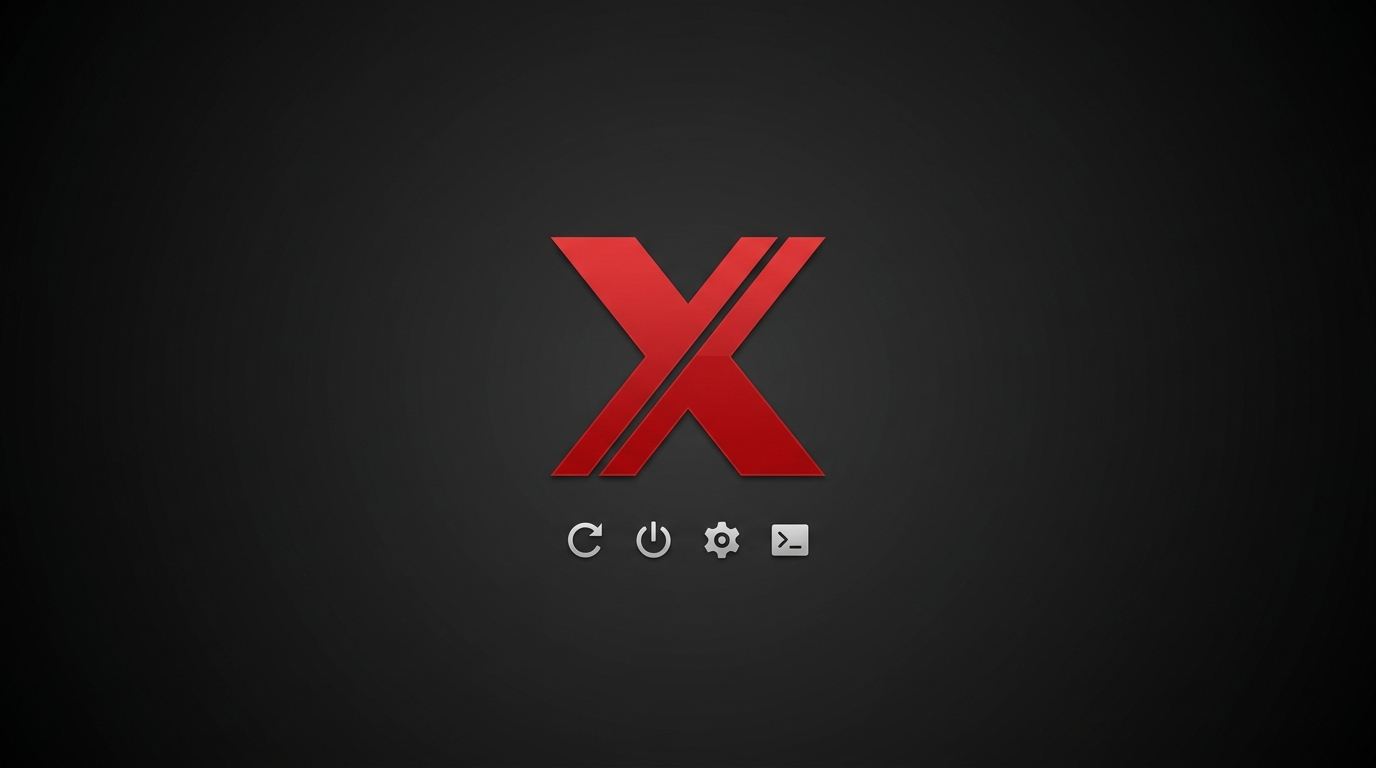
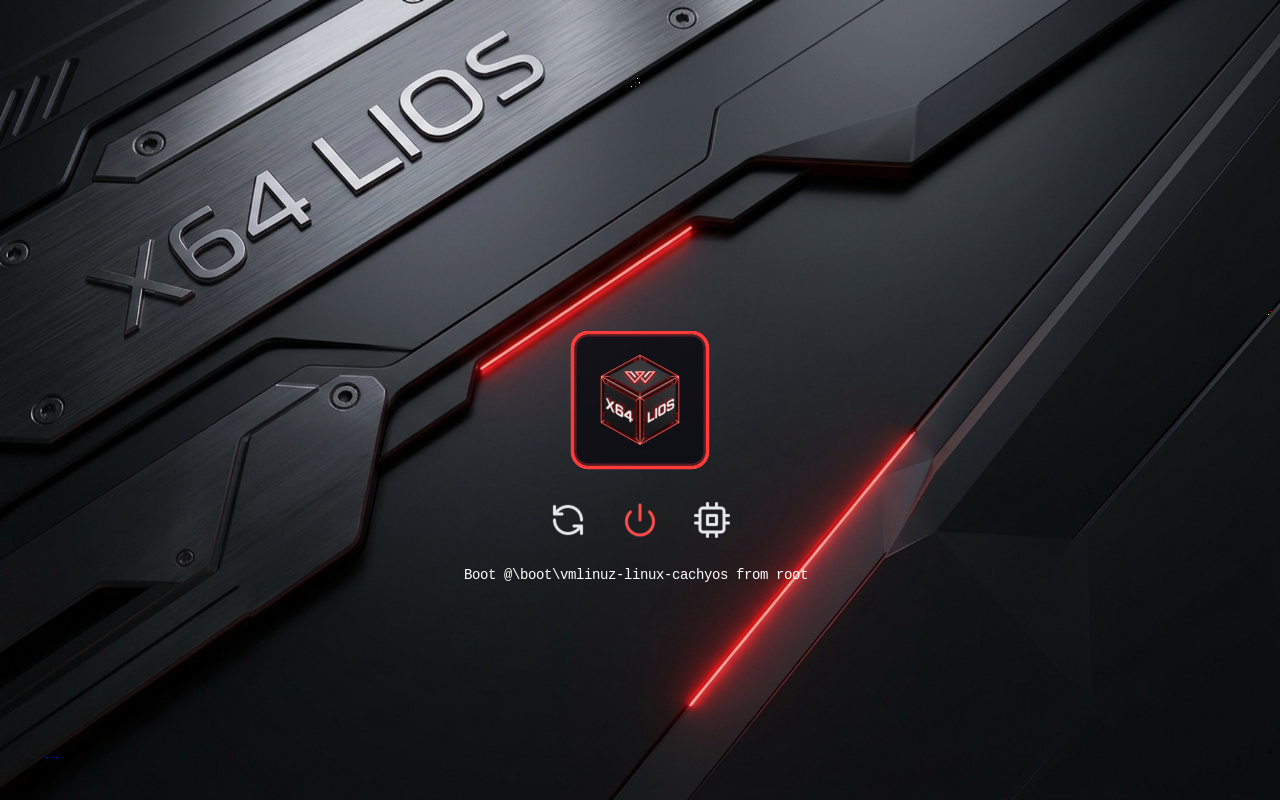
feat(refind): soporte UEFI fallback BOOTX64.EFI, tema x64-lios y preview real en Calamares

diff --git a/python-modules/bootloader/main.py b/python-modules/bootloader/main.py
@@ -1089,15 +1089,24 @@ def update_refind_config(efi_directory, installation_root_path):
         libcalamares.utils.warning('refindKernelList not set.  Skipping updating refind.conf')
         return
 
+    refind_conf_path = installation_root_path + efi_directory + "/EFI/refind/refind.conf"
+
     # Update the config in the file
-    for line in fileinput.input(installation_root_path + efi_directory + "/EFI/refind/refind.conf", inplace=True):
+    for line in fileinput.input(refind_conf_path, inplace=True):
         line = line.strip()
         if line.startswith("#extra_kernel_version_strings") or line.startswith("extra_kernel_version_strings"):
-            line = line.lstrip("#")
+            line = line.lstrip("#").replace('"', '')
             for kernel in kernel_list:
                 if kernel not in line:
                     line += "," + kernel
+        elif line.startswith("timeout "):
+            line = "timeout 5"
         print(line)
+
+    with open(refind_conf_path, "a") as refind_conf:
+        refind_conf.write("\n# X64 LIOS Official Configuration & Theme\n")
+        refind_conf.write("dont_scan_files refind_x64.efi,BOOTX64.EFI\n")
+        refind_conf.write("include themes/x64-lios/theme.conf\n")
 
 
 def install_refind(efi_directory):
@@ -1125,6 +1134,26 @@ def install_refind(efi_directory):
             refind_file.write(line + "\n")
 
     update_refind_config(efi_directory, installation_root_path)
+
+    # Install X64 LIOS rEFInd theme and OS icons
+    theme_src = os.path.join(installation_root_path, "usr/share/refind/themes/x64-lios")
+    refind_efi_dir = os.path.join(install_efi_directory, "EFI/refind")
+    if os.path.isdir(theme_src) and os.path.isdir(refind_efi_dir):
+        theme_dst = os.path.join(refind_efi_dir, "themes/x64-lios")
+        os.makedirs(os.path.dirname(theme_dst), exist_ok=True)
+        shutil.copytree(theme_src, theme_dst, dirs_exist_ok=True)
+        os_icon = os.path.join(theme_src, "icons/os_linux.png")
+        if os.path.isfile(os_icon):
+            shutil.copy2(os_icon, os.path.join(installation_root_path, "boot/.VolumeIcon.png"))
+            shutil.copy2(os_icon, os.path.join(installation_root_path, ".VolumeIcon.png"))
+
+    # Populate UEFI Fallback path (/EFI/BOOT/BOOTX64.EFI) so systems without persistent NVRAM boot rEFInd
+    if os.path.isdir(refind_efi_dir):
+        efi_boot_dir = os.path.join(install_efi_directory, "EFI/BOOT")
+        shutil.copytree(refind_efi_dir, efi_boot_dir, dirs_exist_ok=True)
+        refind_bin = os.path.join(efi_boot_dir, "refind_x64.efi")
+        if os.path.isfile(refind_bin):
+            shutil.move(refind_bin, os.path.join(efi_boot_dir, "BOOTX64.EFI"))
 
 
 def prepare_bootloader(fw_type, install_hybrid_grub):
